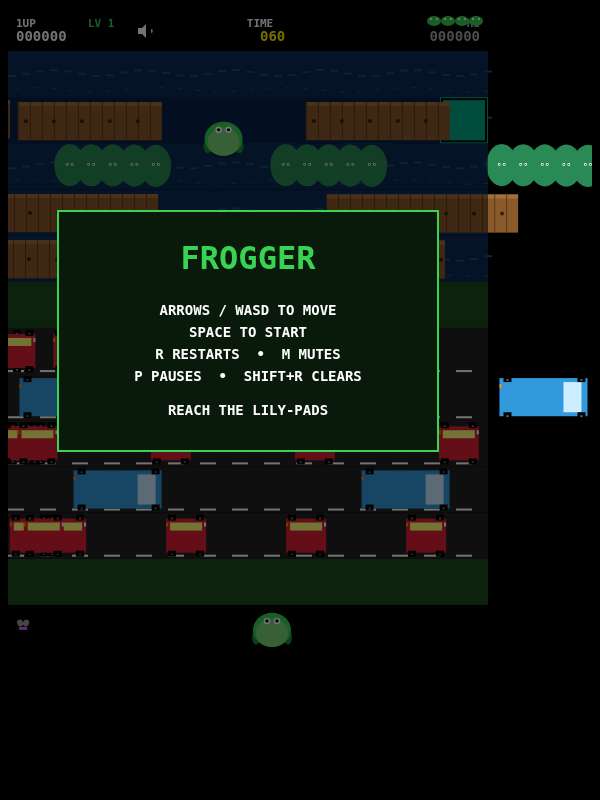
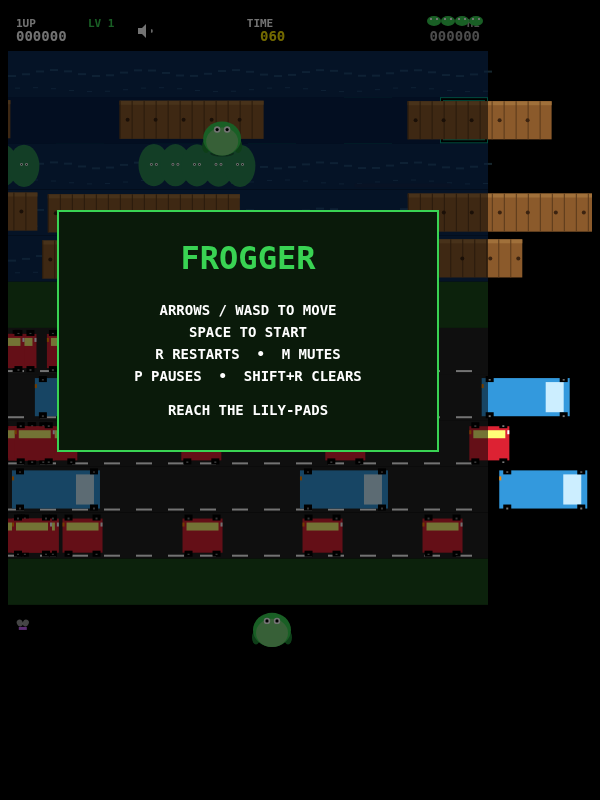
iter25: title shows BEST LV; canvas gets role+aria-label for accessibility

diff --git a/index.html b/index.html
@@ -8,7 +8,7 @@
 </head>
 <body>
   <div id="game-wrap">
-    <canvas id="game"></canvas>
+    <canvas id="game" role="img" aria-label="Frogger arcade game — guide the frog across traffic and a river to the lily pads. Use arrow keys, WASD, or the on-screen controls."></canvas>
     <div id="touch-controls">
       <button class="tc-btn" data-dir="up" aria-label="Up">▲</button>
       <div class="tc-row">

diff --git a/game.js b/game.js
@@ -1305,6 +1305,7 @@
           'REACH THE LILY-PADS',
         ];
         if (State.highScore > 0) titleLines.push('BEST ' + State.highScore);
+        if (State.bestLevel > 1) titleLines.push('BEST LV ' + State.bestLevel);
         this.drawPanel('FROGGER', titleLines, 240);
       } else if (State.phase === 'gameover') {
         const lines = [];

diff --git a/DEVLOG.md b/DEVLOG.md
@@ -644,3 +644,27 @@ celebration read.
   would feel out of sync. Skipped by not scaling the hop duration
   itself (only the simulation).
 - Stopping the world entirely — same UX problem as pausing.
+
+## Iteration 25 — 2026-07-26 — Accessibility + best-level on title
+
+**What:** Two small polish items:
+
+1. Title panel now shows "BEST LV N" when the persisted best level is
+   > 1, matching the game-over panel.
+2. Canvas got `role="img"` and an `aria-label` describing the game so
+   screen-reader users hear what they're about to play.
+
+**Why:** Best level was visible only on game-over. Players reloading
+to retry saw only their best score, not how far they'd gotten.
+
+The aria-label is a tiny addition but brings the page closer to
+standard accessibility practice for canvas-based games.
+
+**Measured:** Both smoke tests still pass.
+
+**Rejected:**
+- A full live-region for screen-reader game events — would require
+  aria-live + an event announcer, more than the one-line addition
+  can carry.
+- A separate "Stats" panel on the title screen — would crowd the
+  existing panel.
